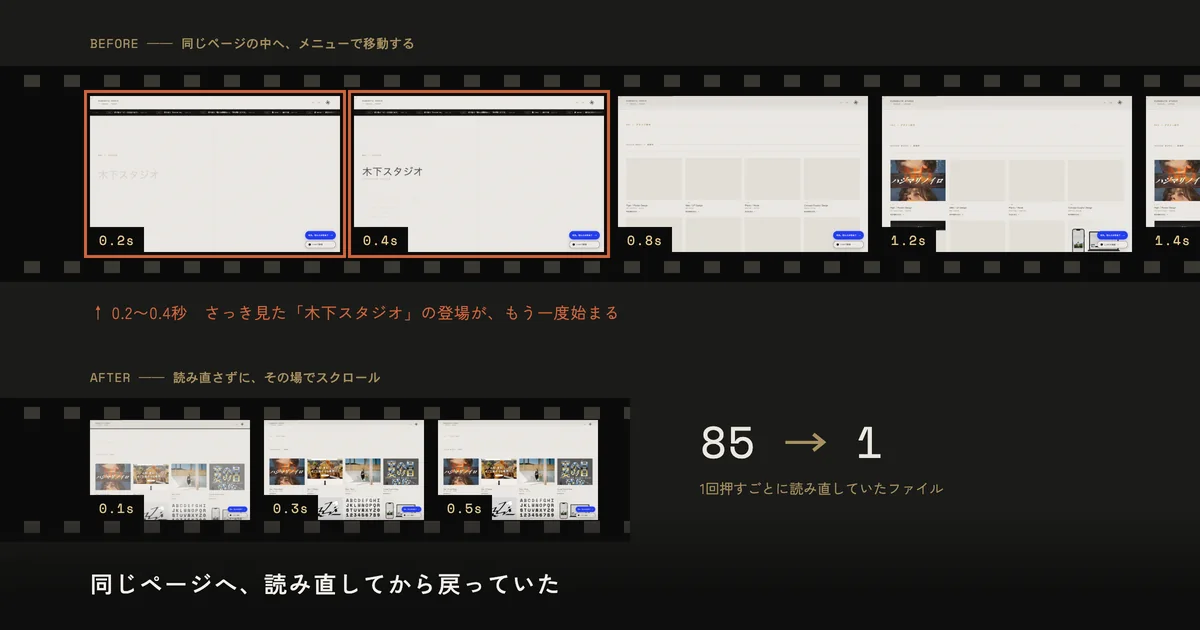
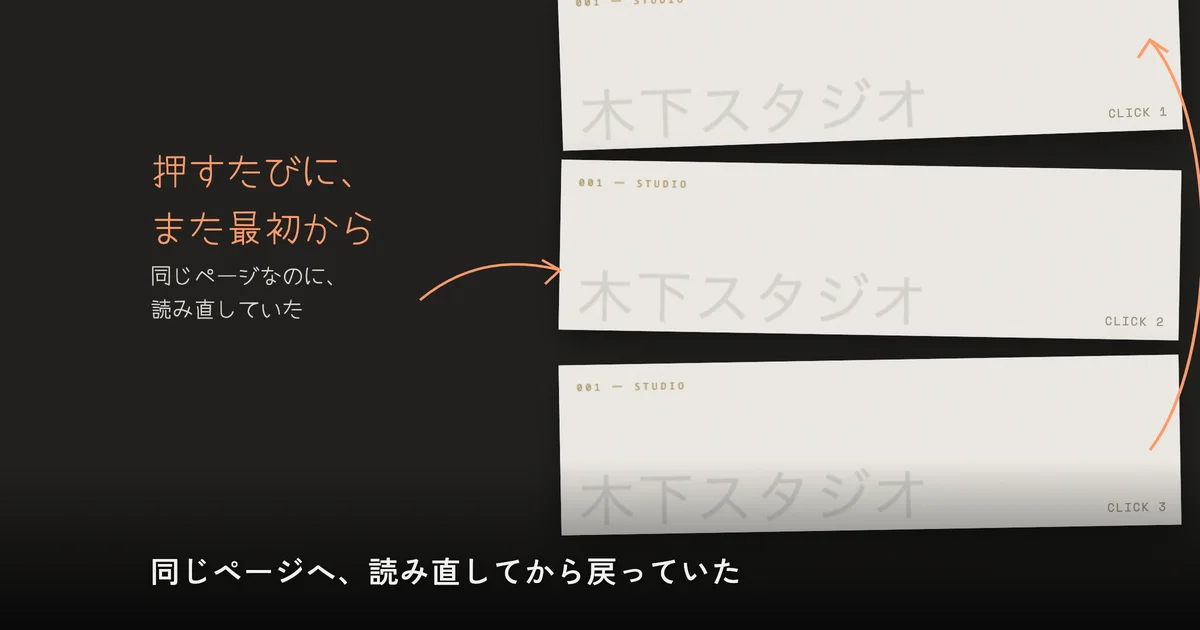
体験研究：読み直しと隠れた読み込みの回のサムネも、作品を大きく見せる形に描き直し

diff --git a/experience-research.html b/experience-research.html
@@ -2151,7 +2151,7 @@
         <div class="feed-theme">インターフェースの体験 — Hidden but Loaded</div>
         <div class="feed-title">PCで、見えないスマホ用の動画まで読んでいた</div>
         <p class="feed-text">PCで読んでいた量の26%が、画面に出ないスマホ用の動画と絵だった。隠し方は正しく、取りに行く側が止まっていなかった。直して0.50MB→0。</p>
-        <img src="assets/img/research-hidden-but-loaded-card.webp" alt="木下スタジオ（木下貴博 / 滋賀）体験研究：PCの画面の後ろに隠れたスマホ用の動画と「26%」" class="feed-img" style="object-position:center;" loading="lazy">
+        <img src="assets/img/research-hidden-but-loaded-card.webp" alt="木下スタジオ（木下貴博 / 滋賀）体験研究：点線のスマホの枠の中に薄く見える、PCでは画面に出ないスマホ用の絵" class="feed-img" style="object-position:center;" loading="lazy">
         <div style="display:flex;gap:1.8rem;margin-top:1.5rem;padding-top:1rem;border-top:1px solid var(--border);flex-wrap:wrap;">
           <a href="/research-hidden-but-loaded.html" style="font-family:'Space Mono',monospace;font-size:.52rem;letter-spacing:.18em;color:#a89060;text-decoration:none;text-transform:uppercase;transition:color .3s;" onmouseover="this.style.color='#1a1a18'" onmouseout="this.style.color='#a89060'">詳細を読む →</a>
         </div>
@@ -2167,7 +2167,7 @@
         <div class="feed-theme">インターフェースの体験 — The Intro Played Again</div>
         <div class="feed-title">同じページへ、読み直してから戻っていた</div>
         <p class="feed-text">トップのメニューが自分自身を読み直し、押すたびに85ファイルと登場の演出をやり直していた。ページの中の移動に変えて、1.4秒→0.5秒。画面は一度も消えなくなった。</p>
-        <img src="assets/img/research-replayed-intro-card.webp" alt="木下スタジオ（木下貴博 / 滋賀）体験研究：メニューを押したあとの画面を時間ごとに並べたフィルムの帯" class="feed-img" style="object-position:center;" loading="lazy">
+        <img src="assets/img/research-replayed-intro-card.webp" alt="木下スタジオ（木下貴博 / 滋賀）体験研究：押すたびに、また薄い状態から始まる「木下スタジオ」の題字を3枚重ねた帯" class="feed-img" style="object-position:center;" loading="lazy">
         <div style="display:flex;gap:1.8rem;margin-top:1.5rem;padding-top:1rem;border-top:1px solid var(--border);flex-wrap:wrap;">
           <a href="/research-replayed-intro.html" style="font-family:'Space Mono',monospace;font-size:.52rem;letter-spacing:.18em;color:#a89060;text-decoration:none;text-transform:uppercase;transition:color .3s;" onmouseover="this.style.color='#1a1a18'" onmouseout="this.style.color='#a89060'">詳細を読む →</a>
         </div>

diff --git a/research-replayed-intro.html b/research-replayed-intro.html
@@ -19,7 +19,7 @@
   <meta property="og:image" content="https://kinoshita.studio/assets/img/research-replayed-intro-card.webp">
   <meta property="og:image:width" content="1200">
   <meta property="og:image:height" content="630">
-  <meta property="og:image:alt" content="メニューを押したあとの画面を0.2秒ごとに並べた帯。直す前は登場の演出がもう一度始まり、直したあとは0.5秒で着く">
+  <meta property="og:image:alt" content="押すたびに、また薄い状態から始まる「木下スタジオ」の題字を3枚重ねた帯">
   <meta property="og:url" content="https://kinoshita.studio/research-replayed-intro.html">
   <meta property="article:published_time" content="2026-10-28">
   <meta property="article:modified_time" content="2026-10-28">
@@ -340,7 +340,7 @@
       <p style="margin:2.2rem 0 0;padding:1.1rem 1.3rem;border-left:2px solid #a89060;font-size:.95rem;line-height:2;color:var(--fg)">この研究を一言でいうと──同じページの中へは、読み直さずに動く。</p>
 
       <figure class="art-figure">
-        <img src="assets/img/research-replayed-intro-card.webp" alt="メニューを押したあとの画面を時間ごとに並べたフィルムの帯。直す前は0.2〜0.4秒で登場の演出がもう一度始まり、直したあとは0.5秒で着く" width="1200" height="630" loading="lazy">
+        <img src="assets/img/research-replayed-intro-card.webp" alt="押すたびに、また薄い状態から始まる「木下スタジオ」の題字を3枚重ねた帯" width="1200" height="630" loading="lazy">
         <figcaption>— 1回押すごとに、85ファイルを読み直していた</figcaption>
       </figure>
 

diff --git a/research-hidden-but-loaded.html b/research-hidden-but-loaded.html
@@ -19,7 +19,7 @@
   <meta property="og:image" content="https://kinoshita.studio/assets/img/research-hidden-but-loaded-card.webp">
   <meta property="og:image:width" content="1200">
   <meta property="og:image:height" content="630">
-  <meta property="og:image:alt" content="PCの画面の後ろに、画面に出ないスマホ用の動画が隠れている絵と「26%」">
+  <meta property="og:image:alt" content="点線のスマホの枠の中に薄く見える、PCでは画面に出ないスマホ用の絵">
   <meta property="og:url" content="https://kinoshita.studio/research-hidden-but-loaded.html">
   <meta property="article:published_time" content="2026-10-28">
   <meta property="article:modified_time" content="2026-10-28">
@@ -340,7 +340,7 @@
       <p style="margin:2.2rem 0 0;padding:1.1rem 1.3rem;border-left:2px solid #a89060;font-size:.95rem;line-height:2;color:var(--fg)">この研究を一言でいうと──「隠す」は見た目の話。「読まない」は別に書く。</p>
 
       <figure class="art-figure">
-        <img src="assets/img/research-hidden-but-loaded-card.webp" alt="PCの画面の後ろに、画面に出ないスマホ用の動画が隠れている絵と「26%」" width="1200" height="630" loading="lazy">
+        <img src="assets/img/research-hidden-but-loaded-card.webp" alt="点線のスマホの枠の中に薄く見える、PCでは画面に出ないスマホ用の絵" width="1200" height="630" loading="lazy">
         <figcaption>— PCで読んでいた量の26%が、画面に一度も出ていなかった</figcaption>
       </figure>
 
